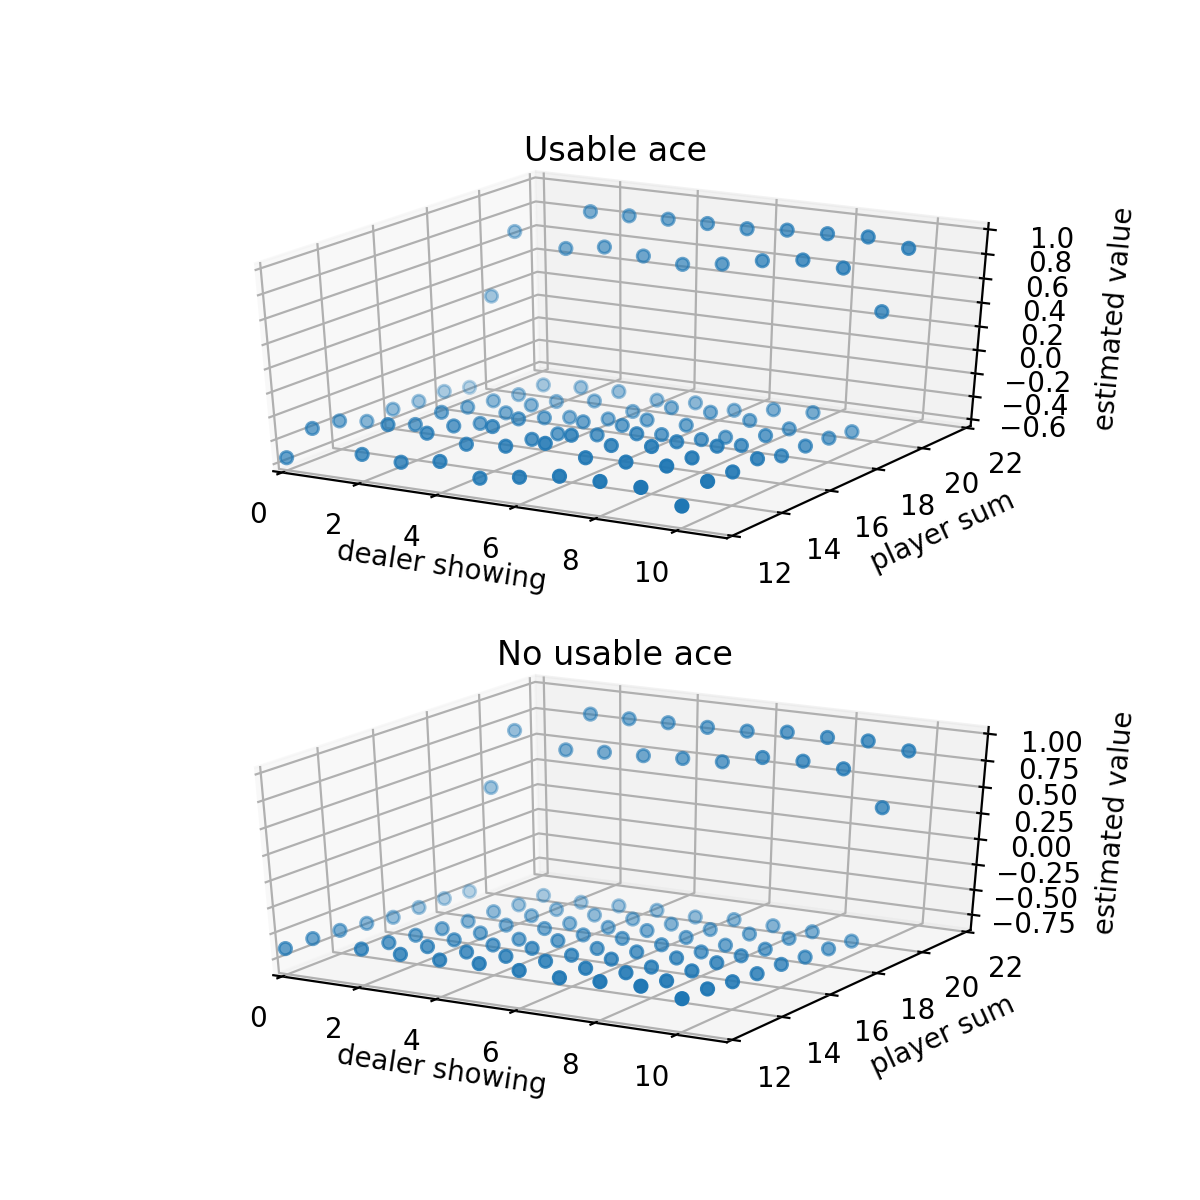
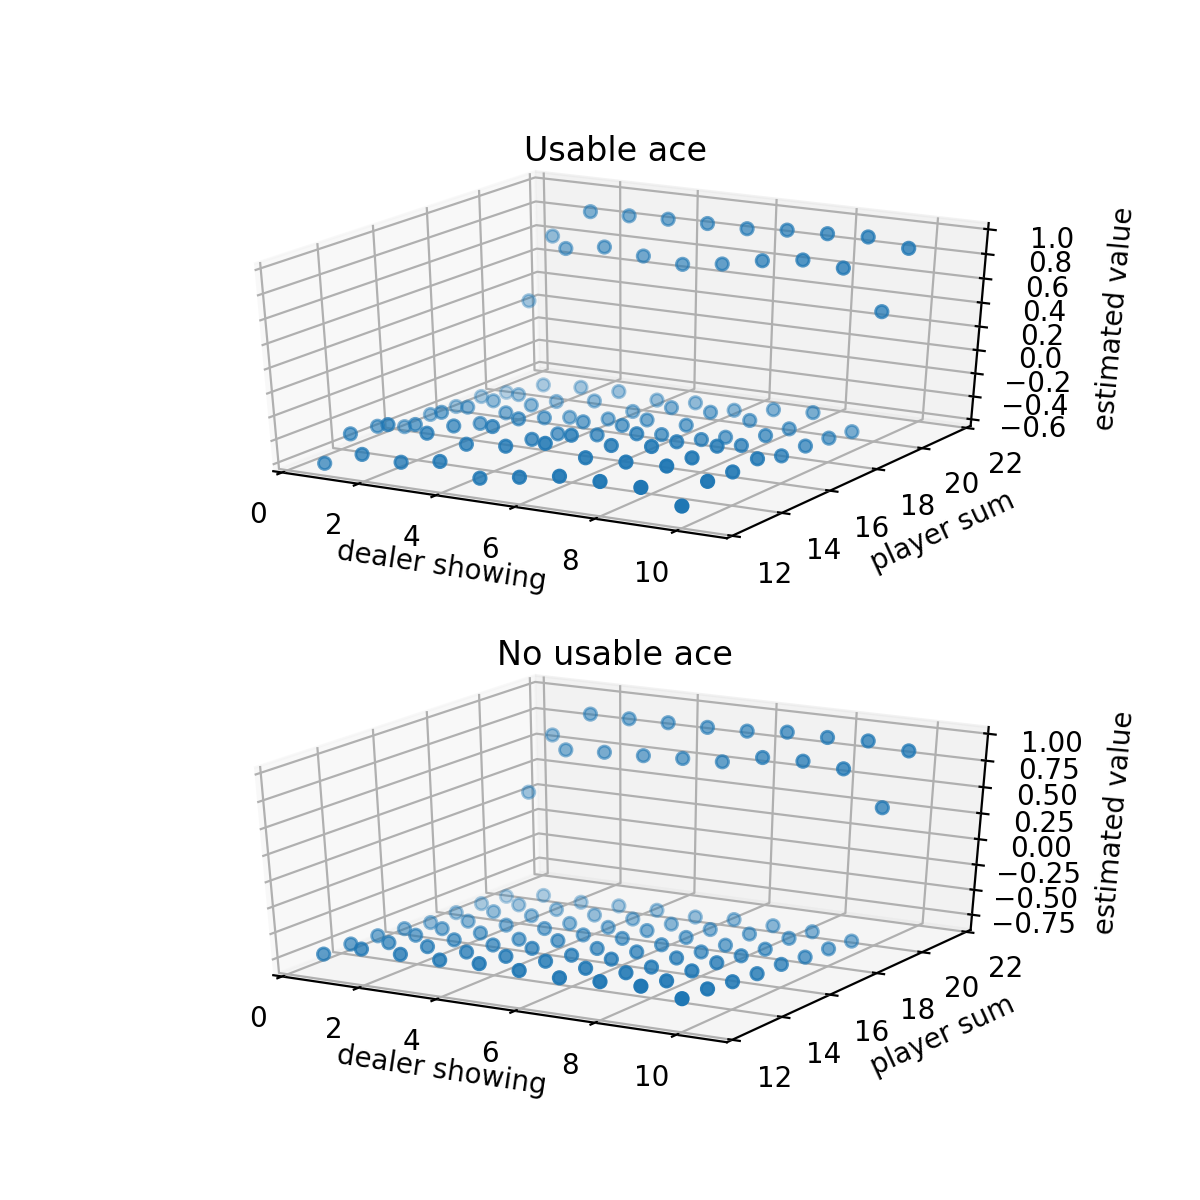
add optimal policy/value

diff --git a/chapter05/blackjack.py b/chapter05/blackjack.py
@@ -11,22 +11,23 @@ import matplotlib.pyplot as plt
 from mpl_toolkits.mplot3d import Axes3D
 
 class Blackjack(object):
-    def __init__(self, episodes=100):
+    def __init__(self, episodes=500000):
         self.episodes = episodes
         self.poker = [0, 2, 3, 4, 5, 6, 7, 8, 9, 10, 10, 10, 10]
         self.policy = {}
         self.valueOfState = {}
-
+        self.valueOfStateAction = {}
         self.samples = []
 
         for psum in range(12,22):
             for seenCard in [0, 2, 3, 4, 5, 6, 7, 8, 9, 10]:
                 for usableAce in ['y', 'n']:
-                    self.policy[psum, seenCard, usableAce] = "sticks" if psum==20 or psum==21 else "hits"
+                    self.policy[psum, seenCard, usableAce] = ["sticks"] if psum==20 or psum==21 else ["hits"]
                     self.valueOfState[psum, seenCard, usableAce] = 0.0
 
     def oneRound(self):
         visitedStates = []
+        visitedActions = []
         score = 0.0
         player = Player(np.random.choice(self.poker, size=2, replace=True))
         dealer = Dealer(np.random.choice(self.poker, size=2, replace=True))
@@ -36,14 +37,16 @@ class Blackjack(object):
                 break
             state = (player.getSum(), dealer.seenCard, player.isUsableAce())
             if state in self.policy.keys():
+                action = np.random.choice(self.policy[state])
                 visitedStates.append(state)
-                if self.policy[state] == "sticks":
+                visitedActions.append(action)
+                if action == "sticks":
                     while(dealer.getSum()<17):
-                        dealer.hits(np.random.choice(self.poker, size=1, replace=True)[0])
+                        dealer.hits(np.random.choice(self.poker))
                     score = 1.0 if dealer.isBust() else self.getWinner(player.getSum(), dealer.getSum())
                     break
-            player.hits(np.random.choice(self.poker, size=1, replace=True)[0])
-        return (visitedStates, score)
+            player.hits(np.random.choice(self.poker))
+        return (visitedStates, visitedActions, score)
 
     def simulate(self):
         episodes = 0
@@ -58,12 +61,47 @@ class Blackjack(object):
         for sample in self.samples:
             for state in sample[0]:
                 if not stateCounts.has_key(state):
-                    self.valueOfState[state] = sample[1]
+                    self.valueOfState[state] = sample[2]
                     stateCounts[state] = 1
                 else:
                     self.valueOfState[state] = (1.0*stateCounts[state]*self.valueOfState[state] \
-                                                     +sample[1]) / (stateCounts[state]+1)
-                    stateCounts[state] += 1 
+                                                     +sample[2]) / (stateCounts[state]+1)
+                    stateCounts[state] += 1
+
+    def estimateStateActionValue(self):
+        stateActionCounts = {}
+        for sample in self.samples:
+            for stateAction in zip(sample[0], sample[1]):
+                if not stateActionCounts.has_key(stateAction):
+                    self.valueOfStateAction[stateAction] = sample[2]
+                    stateActionCounts[stateAction] = 1
+                else:
+                    self.valueOfStateAction[stateAction] = (1.0*stateActionCounts[stateAction]* \
+                                    self.valueOfStateAction[stateAction]+sample[2]) / (stateActionCounts[stateAction]+1)
+                    stateActionCounts[stateAction] += 1
+
+    def monteCarloEs(self, episodes=500000):
+        self.episodes = episodes
+        self.policy = {}
+        self.valueOfState = {}
+        self.valueOfStateAction = {}
+        self.samples = []
+
+        for psum in range(12,22):
+            for seenCard in [0, 2, 3, 4, 5, 6, 7, 8, 9, 10]:
+                for usableAce in ['y', 'n']:
+                    self.policy[psum, seenCard, usableAce] = ["sticks"] if psum==21 else ["sticks", "hits"]
+                    self.valueOfState[psum, seenCard, usableAce] = 0.0
+                    self.valueOfStateAction[(psum, seenCard, usableAce), "sticks"] = 0.0
+                    self.valueOfStateAction[(psum, seenCard, usableAce), "hits"] = 0.0
+        self.simulate()
+        self.estimateStateActionValue()
+        for state in self.policy.keys():
+            if self.valueOfStateAction[(state), "sticks"] > self.valueOfStateAction[(state), "hits"]: 
+                self.policy[state] = ["sticks"]
+            else:
+                self.policy[state] = ["hits"]
+        self.simulate()
 
     def getWinner(self, player, dealer):
         if player > dealer:
@@ -72,31 +110,23 @@ class Blackjack(object):
             return -1.0
         return 0.0
 
-    def printSamples(self):
-        for sample in self.samples:
-            print(sample)
-
     def printStateValue(self):
         for state in self.valueOfState.keys():
             print("state-value:", state, self.valueOfState[state])
 
 def figure5_1(valueOfState):
-    x1 = []
-    y1 = []
-    z1 = []
-    x2 = []
-    y2 = []
-    z2 = []
+    x1, x2 = [], []
+    y1, y2 = [], []
+    z1, z2 = [], []
     for state in valueOfState.keys():
         if state[2] == 'y':
-            x1.append(state[1])
+            x1.append(1 if state[1]==0 else state[1])
             y1.append(state[0])
             z1.append(valueOfState[state])
         else:
-            x2.append(state[1])
+            x2.append(1 if state[1]==0 else state[1])
             y2.append(state[0])
             z2.append(valueOfState[state])
-
     plt.figure(figsize=(6, 6))
     ax = plt.subplot(211, projection='3d')
     ax.scatter(x1, y1, z1)
@@ -105,6 +135,7 @@ def figure5_1(valueOfState):
     ax.set_zlabel("estimated value")
     ax.set_xlim(0, 11)
     ax.set_ylim(12, 22)
+    ax.set_zlim(-1,1)
     ax.set_title('Usable ace')
 
     ax = plt.subplot(212, projection='3d')
@@ -114,13 +145,69 @@ def figure5_1(valueOfState):
     ax.set_zlabel("estimated value")
     ax.set_xlim(0, 11)
     ax.set_ylim(12, 22)
+    ax.set_zlim(-1,1)
     ax.set_title('No usable ace')
 
+    plt.show()
+
+def figure5_3_left(policy):
+    x11, x12 = [], []
+    y11, y12 = [], []
+    x21, x22 = [], []
+    y21, y22 = [], []
+    for state in policy.keys():
+        if state[2] == 'y':
+            if policy[state] == ["sticks"]:
+                x11.append(1 if state[1]==0 else state[1])
+                y11.append(state[0])
+            else:
+                x12.append(1 if state[1]==0 else state[1])
+                y12.append(state[0])
+        else:
+            if policy[state] == ["sticks"]:
+                x21.append(1 if state[1]==0 else state[1])
+                y21.append(state[0])
+            else:
+                x22.append(1 if state[1]==0 else state[1])
+                y22.append(state[0])
+    plt.figure(figsize=(6, 6))
+    ax = plt.subplot(211)
+    ax.scatter(x11, y11, label="sticks")
+    ax.scatter(x12, y12, label="hits")
+    ax.set_xlabel('dealer showing')
+    ax.set_ylabel('player sum')
+    ax.set_xlim(0, 11)
+    ax.set_ylim(11, 22)
+    ax.set_xticks(range(0,12))
+    ax.legend()
+    ax.set_title('Usable ace')
+
+    ax = plt.subplot(212)
+    ax.scatter(x21, y21, label="sticks")
+    ax.scatter(x22, y22, label="hits")
+    ax.set_xlabel('dealer showing')
+    ax.set_ylabel('player sum')
+    ax.set_xlim(0, 11)
+    ax.set_ylim(11, 22)
+    ax.set_xticks(range(0,12))
+    ax.legend()
+    ax.set_title('No usable ace')
+
+    plt.subplots_adjust(hspace=0.5)
     plt.show()
 
 if __name__=='__main__':
     np.random.seed(47)
     blackjack = Blackjack(episodes=500000)
+    # fig 5.1
     blackjack.simulate()
     blackjack.estimateStateValue()
     figure5_1(blackjack.valueOfState)
+
+    # fig 5.3 right
+    blackjack.monteCarloEs(episodes=3000000)
+    blackjack.estimateStateValue()
+    figure5_1(blackjack.valueOfState)
+
+    # fig 5.3 left
+    figure5_3_left(blackjack.policy)

diff --git a/chapter05/README.md b/chapter05/README.md
@@ -3,3 +3,7 @@ fig5.1 left
 ![fig5.1 left](https://github.com/fishermanff/rl-learning/raw/master/chapter05/output/fig5.1_left.png)
 fig5.1 right
 ![fig5.1 right](https://github.com/fishermanff/rl-learning/raw/master/chapter05/output/fig5.1_right.png)
+fig5.3 left optimal policy
+![fig5.3 left](https://github.com/fishermanff/rl-learning/raw/master/chapter05/output/fig5.3_left.png)
+fig5.3 right optimal value
+![fig5.3 right](https://github.com/fishermanff/rl-learning/raw/master/chapter05/output/fig5.3_right.png)
